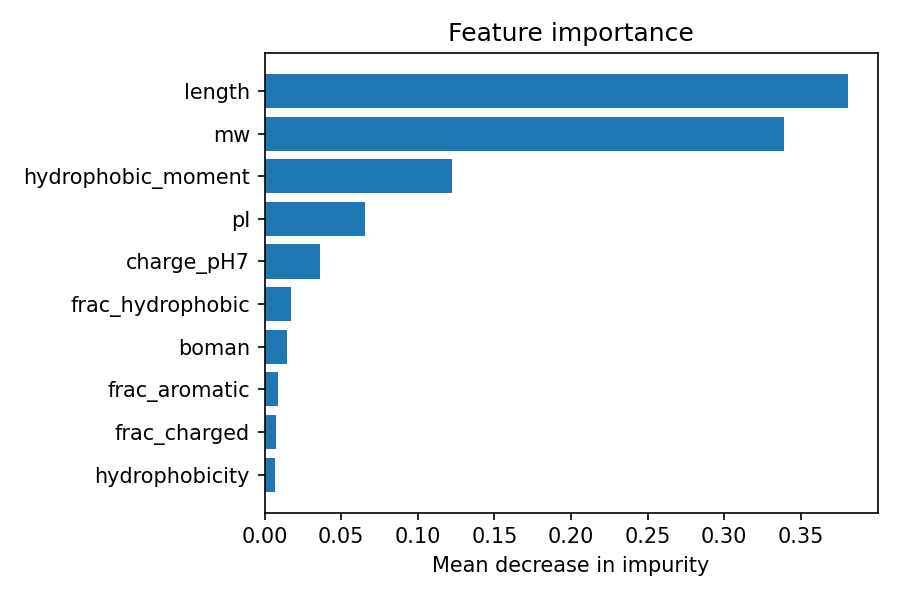
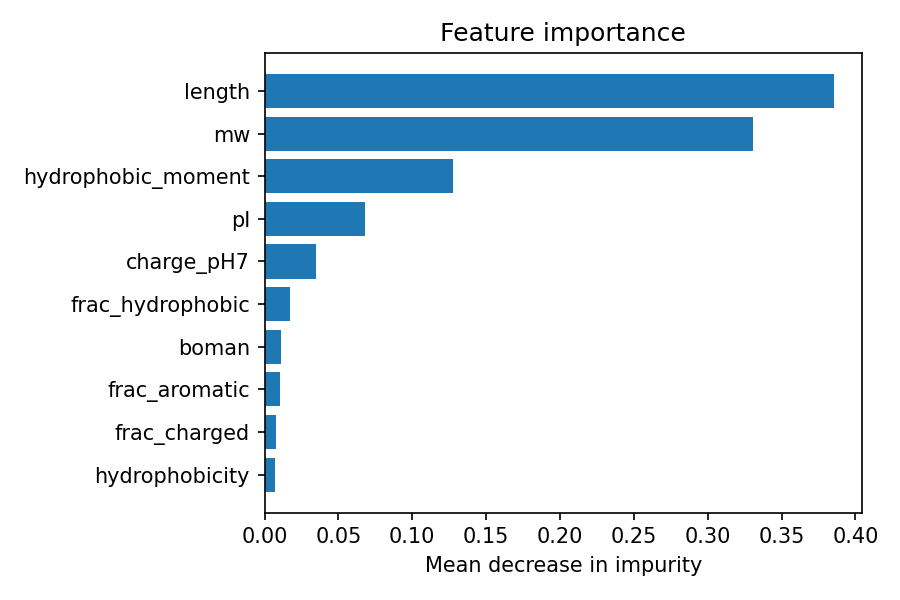
Fix Boman index, GPT sampling, eval dead code, README fence
- amp_scan.py: replace mean|KD| proxy with the real Boman index
  (Radzicka & Wolfenden transfer energies, modlamp table); retrain RF
- generate_amps.py: sample per-candidate target length (5-50 aa);
  char GPT has no stop token so every sample was exactly 45 aa
- train_gpt.py: guard val_loss against tiny val splits
- eval_homology.py: remove unused X_pos/y_pos
- README.md: fix broken code fence; add amp_scan.joblib to HF table
- plots/: regenerated with corrected features

diff --git a/scripts/amp_scan.py b/scripts/amp_scan.py
@@ -58,6 +58,13 @@ AROMATIC = {"F", "W", "Y"}
 FEATURES = ["length", "mw", "pI", "charge_pH7", "hydrophobicity",
             "hydrophobic_moment", "frac_hydrophobic", "frac_charged",
             "frac_aromatic", "boman"]
+BOMAN_ENERGY = {  # side-chain transfer free energies, cyclohexane->water
+    # (kcal/mol; Boman 1989 / Radzicka & Wolfenden 1988, modlamp table)
+    "L": -4.92, "I": -4.92, "V": -4.04, "F": -2.98, "M": -2.35,
+    "W": -2.33, "A": -1.81, "C": -1.28, "G": -0.94, "Y": 0.14,
+    "T": 2.57, "S": 3.40, "H": 4.66, "Q": 5.54, "K": 5.55,
+    "N": 6.64, "E": 6.81, "D": 8.72, "R": 14.92, "P": 0.00,
+}
 
 
 def _charge_at_pH7(seq: str) -> float:
@@ -133,7 +140,7 @@ def features(seq: str) -> list[float]:
         sum(1 for a in seq if a in HYDROPHOBIC) / n,
         sum(1 for a in seq if a in CHARGED) / n,
         sum(1 for a in seq if a in AROMATIC) / n,
-        float(np.mean([abs(v) for v in kd])),  # Boman index (approx)
+        sum(BOMAN_ENERGY.get(a, 0.0) for a in seq) / n,  # Boman index
     ]
 
 

diff --git a/scripts/generate_amps.py b/scripts/generate_amps.py
@@ -62,9 +62,14 @@ def main() -> None:
     # Sample sequences.
     start = torch.tensor([[stoi["M"]]], dtype=torch.long, device=device)
     seqs = []
+    rng = torch.Generator().manual_seed(args.seed)
     with torch.no_grad():
         for _ in range(args.n):
-            out = model.generate(start, max_new_tokens=45,
+            # Char-level GPT has no stop token: sample a target length
+            # (5-50 aa) per candidate, else every peptide is exactly
+            # max_new_tokens long.
+            n_tokens = int(torch.randint(5, 51, (1,), generator=rng))
+            out = model.generate(start, max_new_tokens=n_tokens,
                                  temperature=args.temperature)
             s = "".join(itos[int(i)] for i in out[0].tolist()[1:])
             if 5 <= len(s) <= 50:

diff --git a/scripts/train_gpt.py b/scripts/train_gpt.py
@@ -177,7 +177,11 @@ def main() -> None:
         model.eval()
         total, n = 0.0, 0
         for _ in range(20):
-            ix = torch.randint(0, val_data.numel() - config.block_size - 1, (args.batch_size,))
+            hi = val_data.numel() - config.block_size - 1
+            if hi < 1:  # tiny val split: single sliding window
+                ix = torch.zeros(max(1, args.batch_size), dtype=torch.long)
+            else:
+                ix = torch.randint(0, hi, (args.batch_size,))
             x = torch.stack([val_data[i:i + config.block_size] for i in ix]).to(device)
             y = torch.stack([val_data[i + 1:i + 1 + config.block_size] for i in ix]).to(device)
             _, loss = model(x, y)

diff --git a/scripts/eval_homology.py b/scripts/eval_homology.py
@@ -94,9 +94,7 @@ def main() -> None:
     print(f"  train {len(train_idx)} seqs ({len(train_clusters)} clusters), "
           f"test {len(test_idx)} seqs ({len(clusters) - n_train_clusters} clusters)")
 
-    # Build the dataset: positives (cluster-split) + negatives (random split).
-    X_pos = np.array([pos_seqs[i] for i in train_idx + test_idx])
-    y_pos = np.array([1] * len(train_idx) + [1] * len(test_idx))
+
     # negatives: random split
     neg_perm = rng.permutation(len(neg_seqs))
     n_tr = int(0.8 * len(neg_seqs))

diff --git a/README.md b/README.md
@@ -181,13 +181,11 @@ predicting hemolysis of antimicrobial peptides based on machine
 learning approaches. *Protein Science* 34(7).
 [DOI: 10.1002/pro.70087](https://doi.org/10.1002/pro.70087)
  
- ```bash
- /opt/anaconda3/bin/python3 scripts/train_hemolysis.py \
-
 ```bash
 /opt/anaconda3/bin/python3 scripts/train_hemolysis.py \
     --data data/hemolysis_train.csv --out models
 ```
+
 
 Verified: acc 0.994 | AUC 0.998 | PR-AUC 0.998 (884 peptides, balanced).
 
@@ -234,6 +232,7 @@ All trained models are published on the Hugging Face Hub:
 | `esm_amp.joblib` | AMP classifier (frozen ESM-2 + LR) | 3 KB | acc 0.992, honest AUC 0.971 |
 | `hemolysis.joblib` | toxicity classifier | 3 KB | acc 0.994, AUC 0.998 |
 | `amp_gpt.pt` | converged GPT (2.69M params) | 10.8 MB | val perplexity 10.13 |
+| `amp_scan.joblib` | physicochemical RF (AMP + log10 MIC) | 141 MB | acc 0.986, AUC 0.999 |
 | `esm_finetuned.pt` | 35M ESM-2 fine-tuned end-to-end | 134 MB | acc 0.956, AUC 0.990 |
 
 The GitHub repo ships code + data only (models are regenerable via
